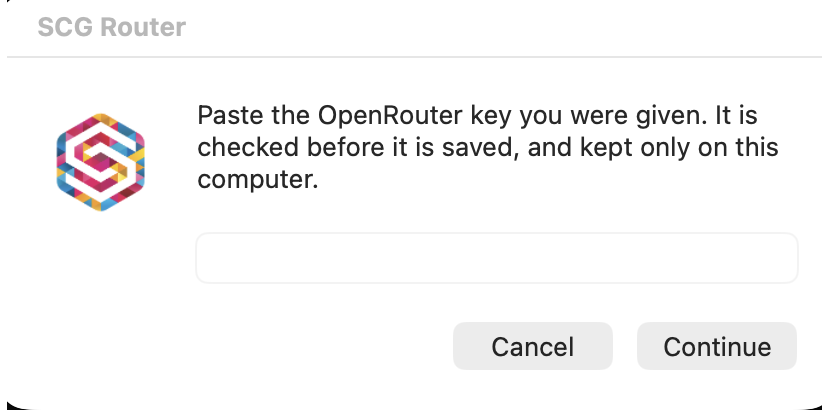
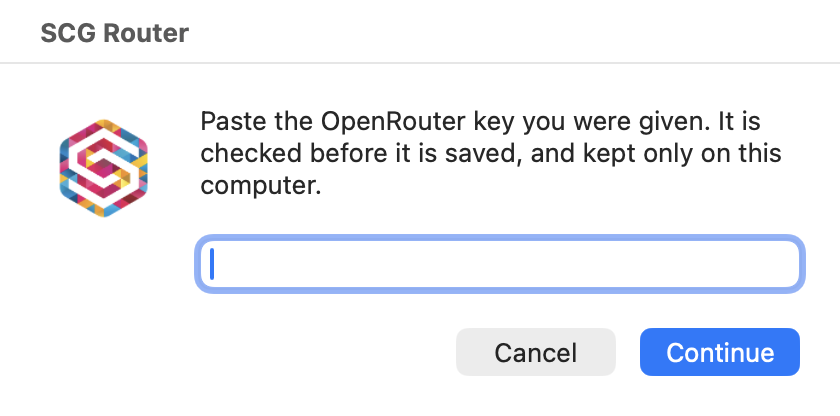
docs: finish SC Unlimited AI publication preparation

diff --git a/README.md b/README.md
@@ -5,20 +5,20 @@
   </picture>
 </p>
 
-<h1 align="center">SC Router</h1>
+<h1 align="center">SC Unlimited AI</h1>
 
 <p align="center">
 One local endpoint for Codex and Claude Code. Your ChatGPT or Claude subscription models and OpenRouter models, side by side in the picker, with the billing kept apart.
 </p>
 
 <p align="center">
-  <a href="https://github.com/software-combined/SC_OpenRouter_adapter/actions/workflows/check.yml"><img alt="Check" src="https://github.com/software-combined/SC_OpenRouter_adapter/actions/workflows/check.yml/badge.svg?branch=main"></a>
-  <a href="https://github.com/software-combined/SC_OpenRouter_adapter/releases/latest"><img alt="Latest release" src="https://img.shields.io/github/v/release/software-combined/SC_OpenRouter_adapter?label=release"></a>
+  <a href="https://github.com/software-combined/SC_Unlimited_ai/actions/workflows/check.yml"><img alt="Check" src="https://github.com/software-combined/SC_Unlimited_ai/actions/workflows/check.yml/badge.svg?branch=main"></a>
+  <a href="https://github.com/software-combined/SC_Unlimited_ai/releases/latest"><img alt="Releases on GitHub" src="https://img.shields.io/badge/releases-GitHub-blue"></a>
   <a href="LICENSE"><img alt="Licence: Apache-2.0" src="https://img.shields.io/badge/licence-Apache--2.0-blue"></a>
   <img alt="Python 3.14, standard library only" src="https://img.shields.io/badge/python-3.14%20stdlib%20only-3776AB">
 </p>
 
-SC Router is a small service that runs on your own machine. It speaks the
+SC Unlimited AI is a small service that runs on your own machine. It speaks the
 Codex and Claude Code wire protocols on a loopback port, so both clients see
 one model list: the models your existing ChatGPT or Claude sign-in already
 includes, plus approved models billed to an OpenRouter API key. You choose
@@ -85,33 +85,13 @@ state, the key file and logs live there.
 
 ## Install
 
-### Bootstrap (recommended)
-
-The bootstrap needs no GitHub account, token or repository access. It
-downloads the pinned Python runtime and the release bundle from the public
-feed, verifies both checksums and installs the per-user service:
-
-```sh
-curl -fsSL https://dist.softwarecombined.com/bootstrap/bootstrap.sh -o bootstrap.sh
-sh bootstrap.sh
-```
-
-On Windows, run the PowerShell bootstrap instead:
-
-```powershell
-Invoke-RestMethod https://dist.softwarecombined.com/bootstrap/bootstrap.ps1 -OutFile bootstrap.ps1
-.\bootstrap.ps1
-```
-
-Add `--channel=beta` (PowerShell: `-Channel beta`) to follow pre-releases.
-
 ### From a checkout
 
 Needs Python 3.14. Build a local release, then install from it:
 
 ```sh
-git clone https://github.com/software-combined/SC_OpenRouter_adapter.git
-cd SC_OpenRouter_adapter
+git clone https://github.com/software-combined/SC_Unlimited_ai.git
+cd SC_Unlimited_ai
 python3.14 packaging/release.py --out dist --url-base "file://$PWD/dist"
 python3.14 packaging/install.py --feed "file://$PWD/dist/latest.json"
 ```
@@ -122,6 +102,15 @@ On Windows, run the same commands from PowerShell with the Python launcher:
 py -3 packaging/release.py --out dist --url-base "file://$PWD/dist"
 py -3 packaging/install.py --feed "file://$PWD/dist/latest.json"
 ```
+
+### Bootstrap for Software Combined staff
+
+Ask a maintainer for the bootstrap script through Software Combined's
+internal channels. It needs no GitHub account, token or repository access:
+it downloads the pinned Python runtime and release bundle from the release
+feed, verifies both checksums and installs the per-user service.
+
+`--channel=beta` (PowerShell: `-Channel beta`) follows pre-releases.
 
 ### What the installer does
 
@@ -183,8 +172,7 @@ OpenRouter dashboard.
 
 ## Updates
 
-Every install checks the public feed at
-`https://dist.softwarecombined.com/<channel>/latest.json`; `stable` is the
+Installs check their release feed for the selected channel. `stable` is the
 default, and writing `beta` into the `channel` file in the router home selects
 pre-releases. Switching channels by hand also means deleting `feed-serial`
 beside it: the channels publish independently, so a higher serial left over
@@ -327,7 +315,7 @@ the repository, including `CONTRIBUTING.md`, `SECURITY.md`, `docs/assets/`,
 
 ## Licence
 
-SC Router is open source under the [Apache License 2.0](LICENSE). You can use,
+SC Unlimited AI is open source under the [Apache License 2.0](LICENSE). You can use,
 modify and redistribute it, including commercially, under the terms of that
 licence. Attribution and licence notices must be preserved as the licence
 requires.
